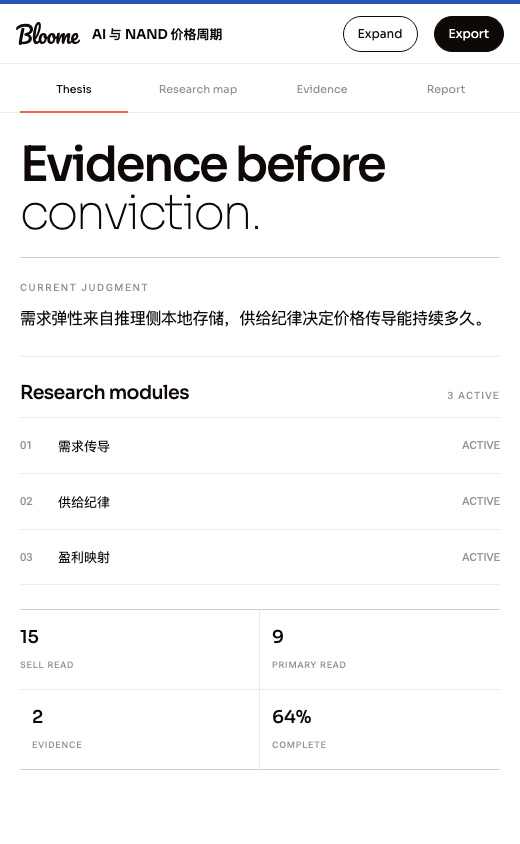
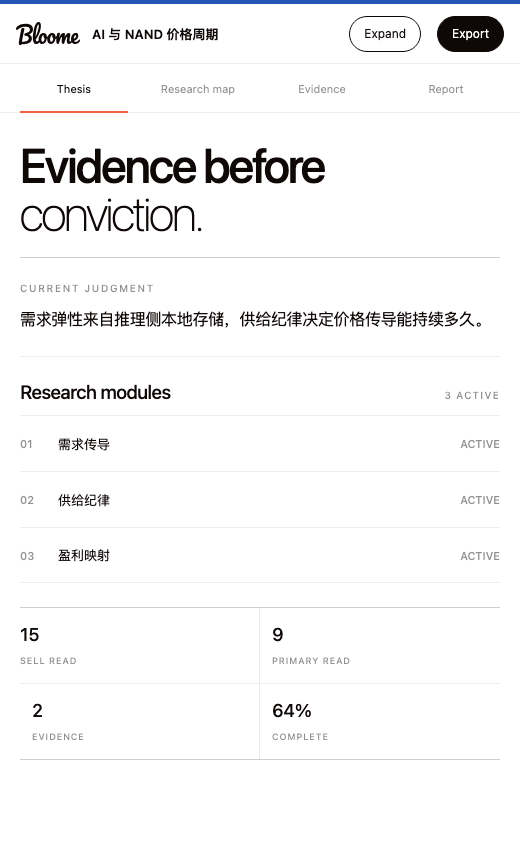
feat: embed evidence audit trail in report HTML

diff --git a/plugins/bloome-investment-research/skills/investment-research/assets/template.html b/plugins/bloome-investment-research/skills/investment-research/assets/template.html
@@ -5,7 +5,15 @@
 <meta name="viewport" content="width=device-width, initial-scale=1.0">
 <style>
   *{margin:0;padding:0;box-sizing:border-box}
-  body{font-family:'Georgia','Times New Roman',serif;background:#fff;color:#1A1A1A}
+  body{font-family:'Georgia','Times New Roman',serif;background:#F7F5F0;color:#1A1A1A}
+  .report-shell{min-height:100vh;padding:20px 12px 40px}
+  .report-tabs{position:sticky;top:0;z-index:200;display:flex;max-width:680px;margin:0 auto 12px;border:1px solid #E0DCD4;background:rgba(255,255,255,.96);font-family:'Helvetica Neue',Arial,sans-serif;backdrop-filter:blur(10px)}
+  .report-tab{position:relative;flex:1;padding:13px 18px;border:0;background:transparent;color:#5A5A5A;font-size:12px;font-weight:600;letter-spacing:.08em;cursor:pointer}
+  .report-tab[aria-selected="true"]{color:#003A5C}
+  .report-tab[aria-selected="true"]::after{content:'';position:absolute;right:18px;bottom:-1px;left:18px;height:2px;background:#B59A57}
+  .report-tab:focus-visible{outline:2px solid #B59A57;outline-offset:-3px}
+  .tab-count{display:inline-block;min-width:20px;margin-left:6px;padding:2px 6px;border-radius:9999px;background:#F7F5F0;color:#5A5A5A;font-size:10px;letter-spacing:0}
+  .report-panel[hidden]{display:none}
   .report{max-width:680px;margin:0 auto;border:1px solid #E0DCD4}
   .top-bar{height:4px;background:linear-gradient(90deg,#003A5C,#B59A57)}
   .bottom-bar{height:3px;background:#003A5C}
@@ -49,12 +57,34 @@
   .data-card{flex:1;padding:10px 12px;background:#F7F5F0;border-radius:8px;text-align:center}
   .data-card .val{font-size:18px;font-weight:700;color:#003A5C;font-family:'Helvetica Neue',Arial,sans-serif}
   .data-card .lbl{font-size:10px;color:#5A5A5A;margin-top:3px;font-family:'Helvetica Neue',Arial,sans-serif}
+  .evidence-report{max-width:860px;margin:0 auto;border:1px solid #E0DCD4;background:#fff}
+  .evidence-intro{color:#5A5A5A;font-size:13px;line-height:1.7}
+  .logic-item,.validation-item,.evidence-entry{padding:18px 0;border-top:1px solid #E0DCD4}
+  .logic-item:first-of-type,.validation-item:first-of-type,.evidence-entry:first-of-type{margin-top:14px}
+  .claim-head{display:flex;align-items:baseline;gap:10px;margin-bottom:10px}
+  .claim-id{flex:0 0 auto;color:#B59A57;font:700 11px/1.3 'Helvetica Neue',Arial,sans-serif;letter-spacing:.08em}
+  .claim-title{color:#003A5C;font-size:16px;line-height:1.45}
+  .evidence-fields{display:grid;grid-template-columns:150px minmax(0,1fr);font-family:'Helvetica Neue',Arial,sans-serif}
+  .evidence-fields dt,.evidence-fields dd{padding:8px 0;border-top:1px solid #EEEAE2;font-size:12px;line-height:1.65}
+  .evidence-fields dt{padding-right:16px;color:#5A5A5A;font-weight:600}
+  .evidence-fields dd{color:#1A1A1A}
+  .strength{display:inline-block;padding:3px 8px;border:1px solid #B59A57;color:#003A5C;font-size:10px;font-weight:700;letter-spacing:.06em;text-transform:uppercase}
+  .evidence-meta{color:#5A5A5A;font:600 10px/1.5 'Helvetica Neue',Arial,sans-serif;letter-spacing:.06em;text-transform:uppercase}
+  .evidence-entry blockquote{margin:10px 0 0;padding-left:14px;border-left:2px solid #B59A57;color:#1A1A1A;font-size:13px;line-height:1.75}
+  .evidence-source{margin-top:8px;color:#5A5A5A;font:400 10px/1.6 'Helvetica Neue',Arial,sans-serif}
   svg text{font-family:'Helvetica Neue',Arial,sans-serif}
-  @media(max-width:560px){.report{border-left:0;border-right:0}.header,.section,.source-bar{padding-left:18px;padding-right:18px}.chart-row,.data-callout{flex-direction:column}.src .tip{position:fixed;left:20px;bottom:20px}}
-  @media print{.report{max-width:none;border:0}.src .tip{display:none!important}}
+  @media(max-width:560px){.report-shell{padding:0 0 24px}.report-tabs{top:0;margin-bottom:0;border-right:0;border-left:0}.report,.evidence-report{border-right:0;border-left:0}.header,.section,.source-bar{padding-left:18px;padding-right:18px}.chart-row,.data-callout{flex-direction:column}.evidence-fields{grid-template-columns:1fr}.evidence-fields dt{padding-bottom:2px}.evidence-fields dd{padding-top:2px;border-top:0}.src .tip{position:fixed;left:20px;bottom:20px}}
+  @media print{body{background:#fff}.report-shell{padding:0}.report-tabs,.evidence-panel{display:none!important}.report-panel[data-report-panel="report"]{display:block!important}.report{max-width:none;border:0}.src .tip{display:none!important}}
 </style>
 </head>
 <body>
+<div class="report-shell">
+<nav class="report-tabs" role="tablist" aria-label="研报视图">
+  <button class="report-tab" type="button" role="tab" id="report-tab" aria-controls="report-panel" aria-selected="true" data-report-tab="report">研报</button>
+  <button class="report-tab" type="button" role="tab" id="evidence-tab" aria-controls="evidence-panel" aria-selected="false" data-report-tab="evidence">证据 <span class="tab-count">{{evidence_count}}</span></button>
+</nav>
+
+<section class="report-panel" id="report-panel" role="tabpanel" aria-labelledby="report-tab" data-report-panel="report">
 <div class="report">
   <div class="top-bar"></div>
 
@@ -98,5 +128,93 @@
   <div class="source-bar">机构 · 报告名 · 2026年X月</div>
   <div class="bottom-bar"></div>
 </div>
+</section>
+
+<section class="report-panel evidence-panel" id="evidence-panel" role="tabpanel" aria-labelledby="evidence-tab" data-report-panel="evidence" hidden>
+<div class="evidence-report">
+  <div class="top-bar"></div>
+  <div class="header">
+    <div class="header-label">Research Audit Trail</div>
+    <div class="header-title">证据与交叉验证</div>
+    <div class="header-meta">卖方逻辑、验证结论与完整证据账本 · 共 {{evidence_count}} 条证据 · 数据截至 {{report_month}}</div>
+  </div>
+
+  <!-- 按 sell_side_logic.md 的 claim 顺序重复 logic-item；保留原始 claim ID。 -->
+  <div class="section" data-evidence-section="sell-side-logic">
+    <div class="section-label">Sell-side logic · 卖方逻辑</div>
+    <p class="evidence-intro">这里呈现分析框架、因果链、关键假设、领先指标及失效条件。</p>
+    <article class="logic-item" data-claim-id="C1" data-logic-claim-id="C1">
+      <div class="claim-head"><span class="claim-id">C1</span><h2 class="claim-title">{{logic_claim}}</h2></div>
+      <dl class="evidence-fields">
+        <dt>因果链</dt><dd>{{logic_causal_chain}}</dd>
+        <dt>关键假设</dt><dd>{{logic_assumptions}}</dd>
+        <dt>领先指标</dt><dd>{{logic_indicators}}</dd>
+        <dt>风险与失效条件</dt><dd>{{logic_risks}}</dd>
+      </dl>
+    </article>
+  </div>
+
+  <!-- 按 validation.md 的 claim 顺序重复 validation-item；七个字段不得省略。 -->
+  <div class="section" data-evidence-section="validation">
+    <div class="section-label">Validation · 交叉验证</div>
+    <p class="evidence-intro">每个重要判断同时展示支持、反方、校准结果、未验证点与可证伪条件。</p>
+    <article class="validation-item" data-claim-id="C1" data-validation-claim-id="C1">
+      <div class="claim-head"><span class="claim-id">C1</span><h2 class="claim-title">{{validation_claim}}</h2></div>
+      <dl class="evidence-fields">
+        <dt>支持证据</dt><dd data-validation-field="support">{{support_evidence}}</dd>
+        <dt>反方证据</dt><dd data-validation-field="opposing">{{opposing_evidence}}</dd>
+        <dt>校准结果</dt><dd data-validation-field="calibration">{{calibration_result}}</dd>
+        <dt>未验证点</dt><dd data-validation-field="unverified">{{unverified_point}}</dd>
+        <dt>证据强度</dt><dd data-validation-field="strength"><span class="strength">{{evidence_strength}}</span></dd>
+        <dt>什么会改变判断</dt><dd data-validation-field="falsifier">{{judgment_falsifier}}</dd>
+      </dl>
+    </article>
+  </div>
+
+  <!-- evidence.json 中每一条记录都要渲染为 evidence-entry；data-evidence-id 必须等于 chunk_id。 -->
+  <div class="section" data-evidence-section="ledger">
+    <div class="section-label">Evidence ledger · 证据账本</div>
+    <p class="evidence-intro">以下账本覆盖本报告使用的全部证据，保留立场、语料层、原文与精确定位。</p>
+    <article class="evidence-entry" data-evidence-id="{{evidence_chunk_id}}" data-stance="{{evidence_stance}}">
+      <div class="evidence-meta">{{evidence_chunk_id}} · {{evidence_corpus}} · {{evidence_stance}}</div>
+      <h2 class="claim-title">{{evidence_claim}}</h2>
+      <blockquote>{{evidence_quote}}</blockquote>
+      <div class="evidence-source">{{evidence_title}} · {{evidence_published_at}} · {{evidence_locator}}</div>
+    </article>
+  </div>
+
+  <div class="source-bar">证据账本与 <span class="highlight">evidence.json</span> 一一对应；原始定位保留至页码或行号。</div>
+  <div class="bottom-bar"></div>
+</div>
+</section>
+</div>
+
+<script>
+(() => {
+  const tabs = [...document.querySelectorAll('[data-report-tab]')];
+  const panels = [...document.querySelectorAll('[data-report-panel]')];
+  const activate = (name, updateHash = true) => {
+    tabs.forEach((tab) => {
+      const selected = tab.dataset.reportTab === name;
+      tab.setAttribute('aria-selected', String(selected));
+      tab.tabIndex = selected ? 0 : -1;
+    });
+    panels.forEach((panel) => { panel.hidden = panel.dataset.reportPanel !== name; });
+    if (updateHash && history.replaceState) history.replaceState(null, '', name === 'evidence' ? '#evidence' : '#report');
+  };
+  tabs.forEach((tab, index) => {
+    tab.addEventListener('click', () => activate(tab.dataset.reportTab));
+    tab.addEventListener('keydown', (event) => {
+      if (event.key !== 'ArrowLeft' && event.key !== 'ArrowRight') return;
+      event.preventDefault();
+      const offset = event.key === 'ArrowRight' ? 1 : -1;
+      const next = tabs[(index + offset + tabs.length) % tabs.length];
+      activate(next.dataset.reportTab);
+      next.focus();
+    });
+  });
+  activate(location.hash === '#evidence' ? 'evidence' : 'report', false);
+})();
+</script>
 </body>
 </html>

diff --git a/plugins/bloome-investment-research/assets/workbench.html b/plugins/bloome-investment-research/assets/workbench.html
@@ -110,7 +110,7 @@
 
         <section class="view" data-panel="report">
           <div class="report-note"><span><strong>Native investment report</strong> · The plugin shell does not restyle this document.</span><span id="reportState"></span></div>
-          <iframe class="report-frame" id="reportFrame" title="Investment report preview" sandbox="allow-same-origin"></iframe>
+          <iframe class="report-frame" id="reportFrame" title="Investment report preview" sandbox="allow-scripts"></iframe>
         </section>
       </article>
 

diff --git a/plugins/bloome-investment-research/skills/investment-research/SKILL.md b/plugins/bloome-investment-research/skills/investment-research/SKILL.md
@@ -37,7 +37,7 @@ Run these stages in order:
 4. Save `validation.md`.
 5. Save `report_outline.md` or `report_outline.json`.
 6. Save one `chapter_XX_*.md` for each substantive report section.
-7. Save and synthesize `final_report.md`, `report.md`, `report.html`, `evidence.json`, and `coverage_stats.json`.
+7. Save and synthesize `final_report.md`, `report.md`, `report.html`, `evidence.json`, and `coverage_stats.json`. The single `report.html` must embed the report and its audit trail as switchable tabs.
 
 Keep all staged files traceable to `evidence.json`. Do not skip from search notes directly to the final report.
 
@@ -67,6 +67,14 @@ Use sell-side material for the analytical frame and structured data; use primary
 Render primary evidence quotations visibly with `<blockquote class="primary-quote">` and replace `{{primary_quote_source}}` with the exact matched `evidence.json` source label. The visible source line should use the returned source party/title and publication date; keep page/line locators inside `evidence.json` for traceability, not in the reader-facing line. Never write a generic label or invent a source. Keep sell-side references as the template's `.src` hover tooltips. Every claim, quote, table source, chart source, and tooltip must map to `evidence.json`. Keep disagreements visible.
 
 Use `assets/template.html` as the visual source of truth; fill its placeholders and insert report content within its existing structure. Do not replace it with a newly invented card layout or a different page structure. Preserve its header, judgment block, section layout, source bar, hover-tooltip system, and existing visual language. Surface source coverage in the report, including sell-side reports read and primary/industry materials read. Pass `report_month` to `research_synthesize` when a data cutoff is specified, for example `2026年7月`.
+
+Keep both views in the same self-contained `report.html`:
+
+- The `研报` tab contains the complete reader-facing investment report and remains the default view.
+- The `证据` tab renders the structured content of `sell_side_logic.md`, then the claim-by-claim content of `validation.md`, then the complete `evidence.json` ledger. Do not link out to the Markdown files or paste raw Markdown into the page.
+- Preserve every claim ID across sell-side logic and validation. Set each logic entry's `data-logic-claim-id` and each validation entry's `data-validation-claim-id` to the exact claim ID. For each validation claim, visibly include support evidence, opposing evidence, calibration result, unverified point, evidence strength, and what would change the judgment.
+- Render every `evidence.json` item once in the ledger and set its entry's `data-evidence-id` to the exact `chunk_id`. Include stance, corpus, quote, source title, publication date, and page/line locator.
+- Preserve the template's accessible tab roles, keyboard behavior, mobile layout, and print behavior. Do not remove the tab script or leave any template placeholders unresolved.
 
 For numeric data, use the available `reson-charts` capability and follow its documented schema; if unavailable, use self-contained inline SVG/CSS. For relationships and mechanisms, use the reusable components in `references/concept-diagrams.md`. Select chart types from the data structure and read `references/chart-rules.md` before rendering.
 

diff --git a/plugins/bloome-investment-research/skills/investment-research/references/file-specs.md b/plugins/bloome-investment-research/skills/investment-research/references/file-specs.md
@@ -135,3 +135,14 @@ Recommended fields include:
 - `source_path`
 - `published_at`
 - `page_start` or `line_start`
+
+## `report.html`
+
+Treat `report.html` as one self-contained deliverable with two accessible views:
+
+1. `研报`: the complete reader-facing report rendered in the native investment report template.
+2. `证据`: an audit trail rendered from `sell_side_logic.md`, `validation.md`, and every entry in `evidence.json`.
+
+The evidence view must preserve claim IDs using `data-logic-claim-id="<claim_id>"` and `data-validation-claim-id="<claim_id>"`, and show the sell-side causal frame, assumptions, indicators, risks and invalidation conditions. For each validation claim, show support evidence, opposing evidence, calibration result, unverified point, evidence strength, and what would change the judgment. Render the complete evidence ledger with one `data-evidence-id="<chunk_id>"` entry per evidence item, including stance, corpus, quote, title, publication date, and exact page/line locator.
+
+Keep the two views inside the same HTML document. Do not use external pages, external JavaScript, or links to local Markdown files as a substitute for embedded content.

diff --git a/plugins/bloome-investment-research/README.md b/plugins/bloome-investment-research/README.md
@@ -7,7 +7,7 @@ Cross-runtime, evidence-first investment research for Codex and Claude Code.
 - The shared MCP server provides the same research and validation tools in both hosts.
 - Codex renders the native PiP/fullscreen workbench. Claude Code returns progress, evidence, artifacts, and `reportPath` without injecting the complete HTML report into model context.
 - Bloome styling applies to the optional workbench only.
-- `skills/investment-research/assets/template.html` remains the final report's visual source of truth.
+- `skills/investment-research/assets/template.html` remains the final report's visual source of truth and keeps the reader report plus its evidence audit trail in one tabbed HTML deliverable.
 
 Runtime manifests are generated from `plugin.config.json`; do not edit `.codex-plugin/plugin.json`, `.claude-plugin/plugin.json`, or either marketplace by hand.
 
